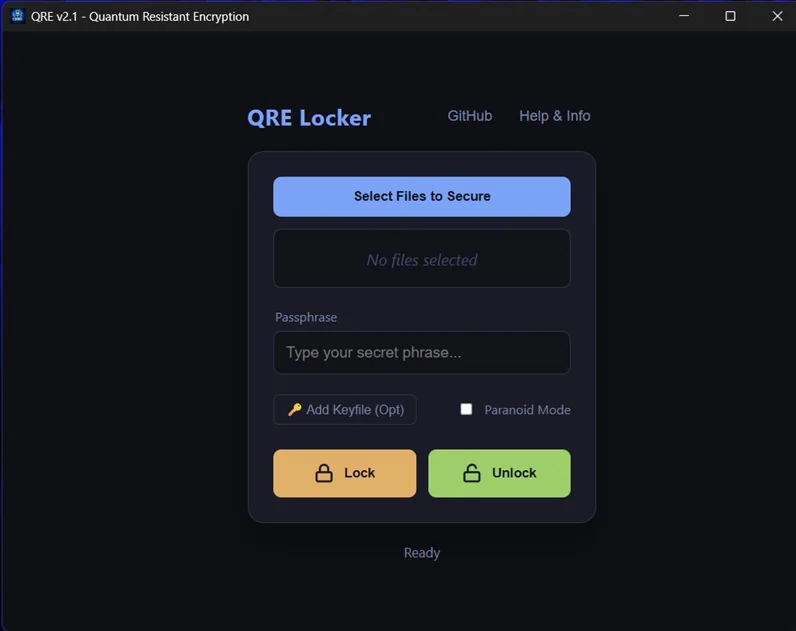
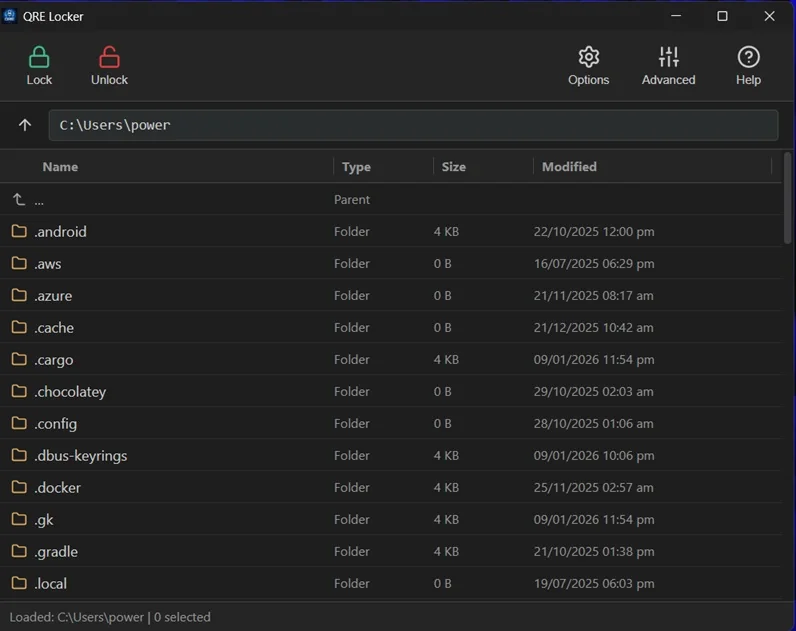
feat: added new main image, change download description

diff --git a/index.html b/index.html
@@ -625,7 +625,7 @@
             <a
               href="https://github.com/powergr/quantum-locker/releases/latest"
               class="cta-button"
-              >Download v2.1</a
+              >Download Latest Release</a
             >
             <a
               href="https://github.com/powergr/quantum-locker"
@@ -779,7 +779,7 @@
           <div class="timeline-item current">
             <div class="timeline-dot"></div>
             <div class="timeline-content">
-              <h3>Phase 2: QRE Locker (v2.1)</h3>
+              <h3>Phase 2: QRE Locker</h3>
               <div class="timeline-duration">Current Release</div>
               <p>
                 <strong>Engine Rewrite:</strong> Ported to Rust for memory

diff --git a/about.html b/about.html
@@ -454,7 +454,7 @@
 
         <h3>Q: Do I need an internet connection to use QRE Locker?</h3>
         <p>
-          No. QRE Locker v2.1 is an <strong>offline-first</strong> desktop
+          No. QRE Locker v2.2 is an <strong>offline-first</strong> desktop
           application. All encryption, key derivation, and entropy generation
           happen locally on your device. We do not transmit your keys or data to
           the cloud.

diff --git a/contact.html b/contact.html
@@ -437,7 +437,7 @@
           <a href="about.html">About Us</a>
           <span>|</span>
           <a
-            href="https://github.com/powergr/Project_QRE"
+            href="https://github.com/powergr/quantum-locker/"
             target="_blank"
             rel="noopener noreferrer"
             >GitHub</a
